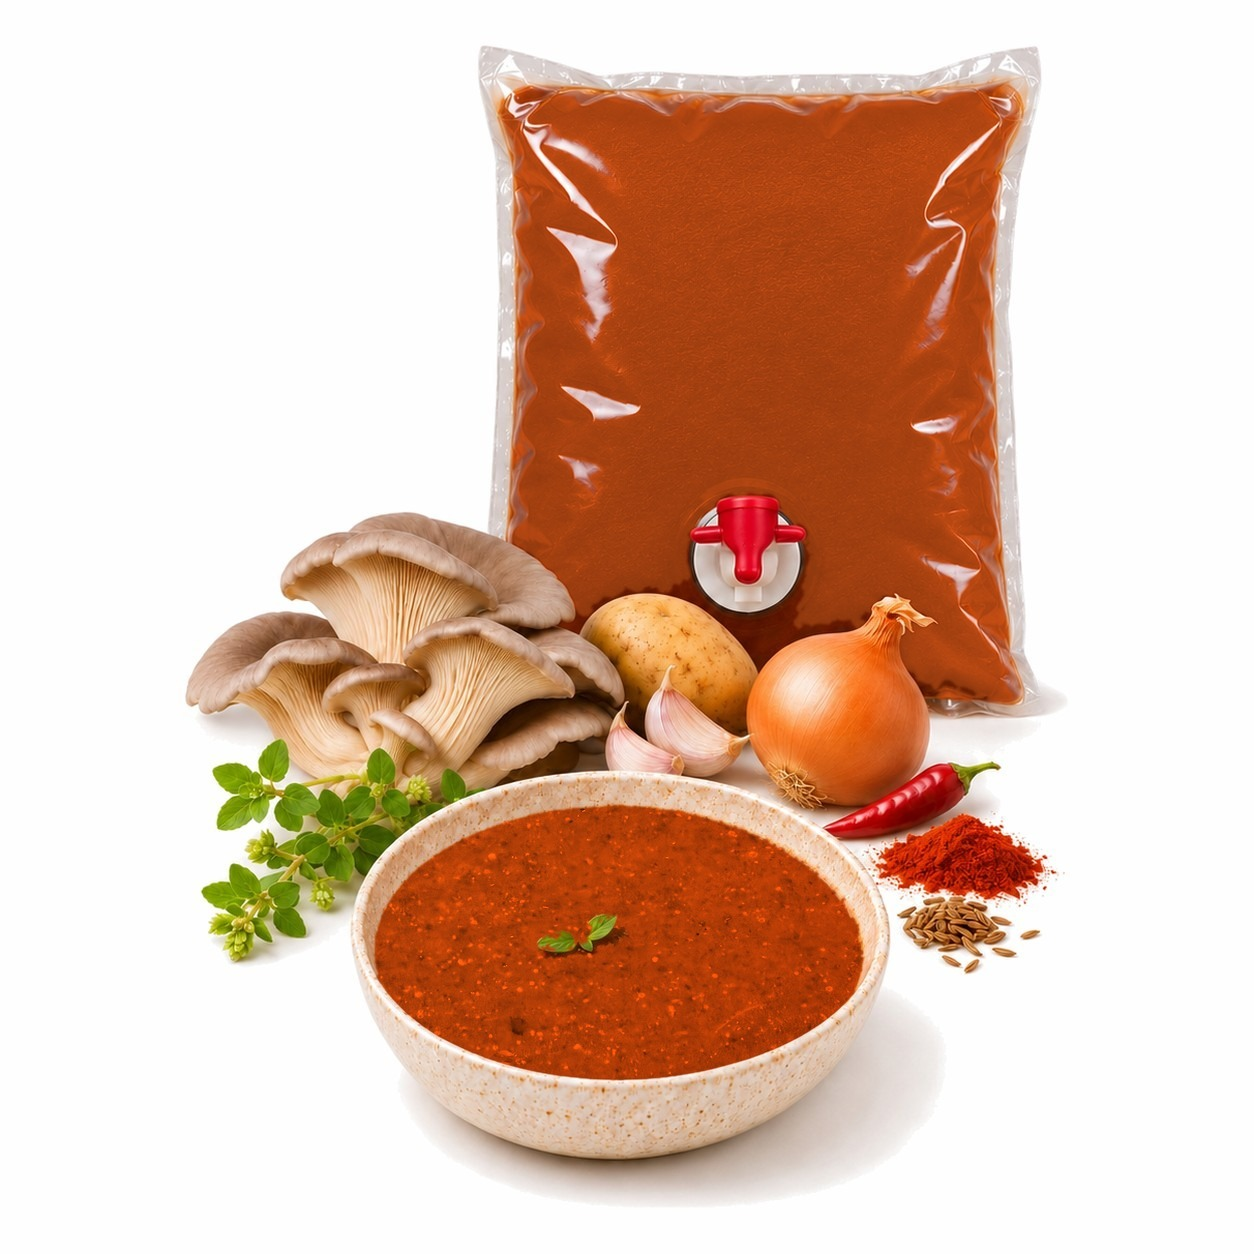
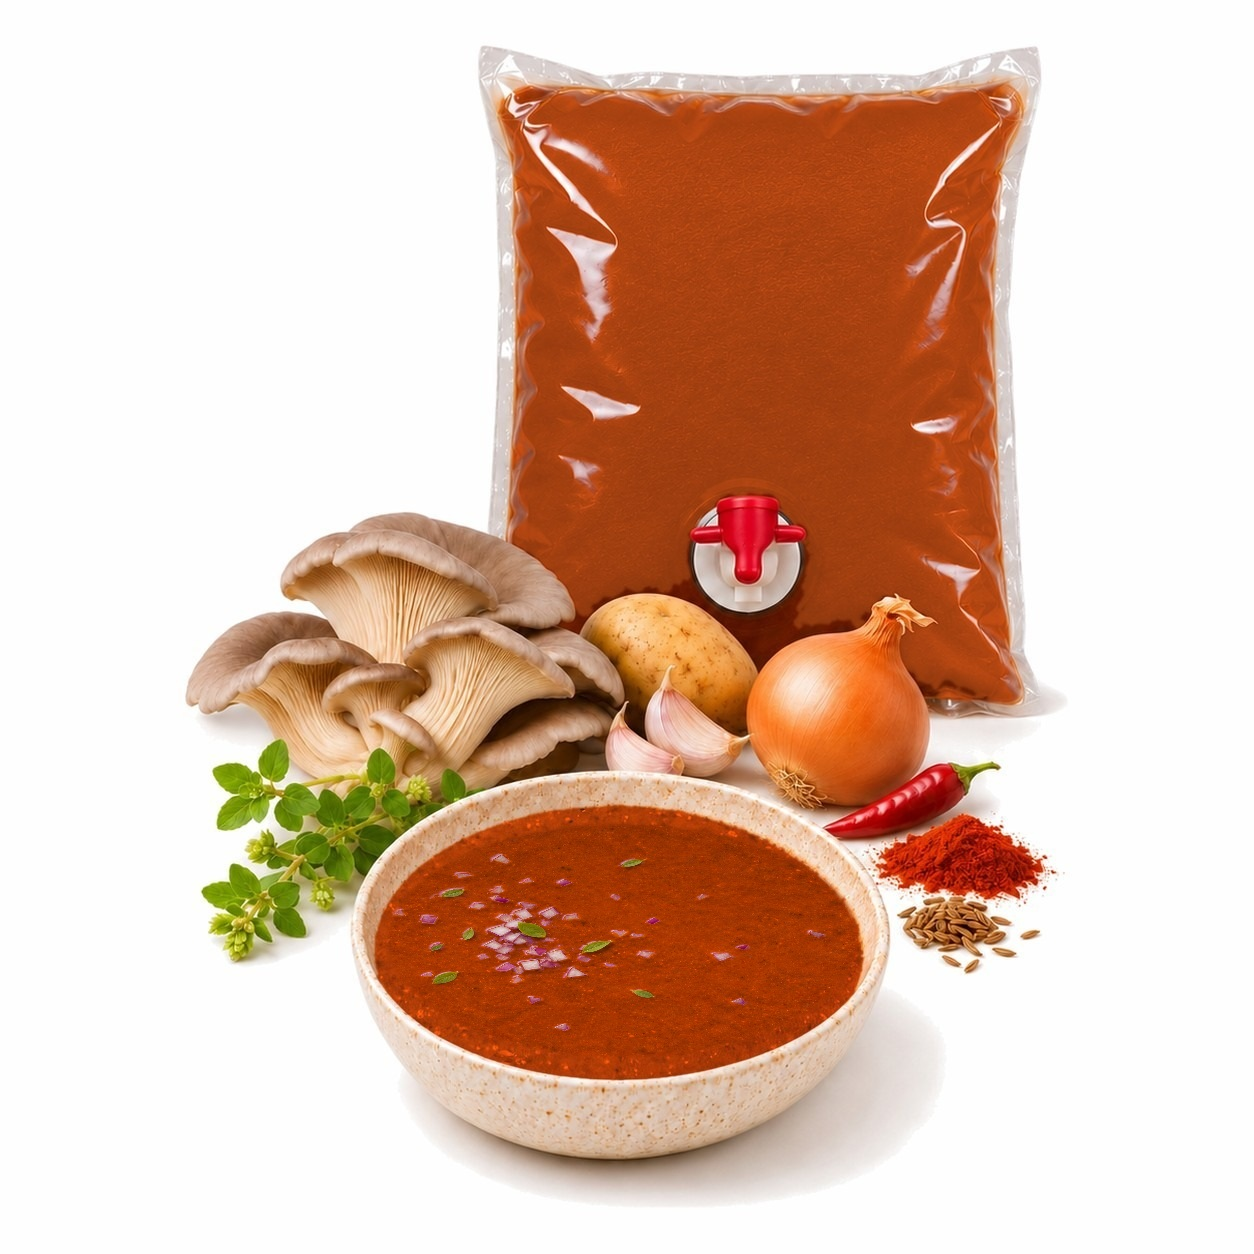
Gulášová polévka z hlívy ústřičné: hlavní fotka shora, fotka s beginou se stejnou hladinou
Claude-Session: https://claude.ai/code/session_016QL8fyP6fDGx2RMwKgd8AU

Changed region(s): [[0.311, 0.6531, 0.6842, 0.8397]]

diff --git a/dashboard/lib/eshop/productImages.ts b/dashboard/lib/eshop/productImages.ts
@@ -32,6 +32,8 @@ const BACKDROP: Record<string, string> = {
   "/eshop/polevky/kulajda-begina.jpg": "#fefefe",
   "/eshop/polevky/spenatova-polevka-begina-v3.jpg": "#fefefe",
   "/eshop/polevky/gulasova-polevka-z-hlivy-ustricne-begina-v3.jpg": "#fefefe",
+  "/eshop/polevky/gulasova-polevka-z-hlivy-ustricne-miska-v6.jpg": "#fefefe",
+  "/eshop/polevky/gulasova-polevka-z-hlivy-ustricne-begina-v6.jpg": "#fefefe",
   "/eshop/polevky/kulajda-begina-v3.jpg": "#fefefe",
   "/eshop/polevky/dynova-polevka-begina-v3.jpg": "#fefefe",
   "/eshop/polevky/rajcatova-polevka-begina-v3.jpg": "#fefefe",
